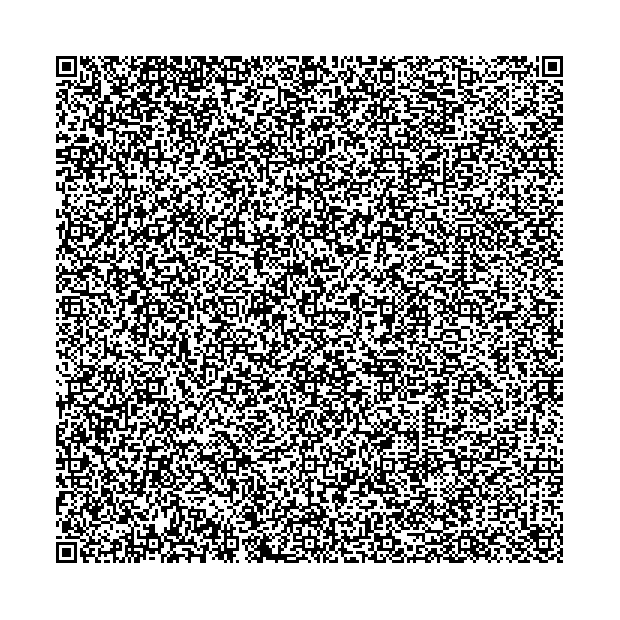
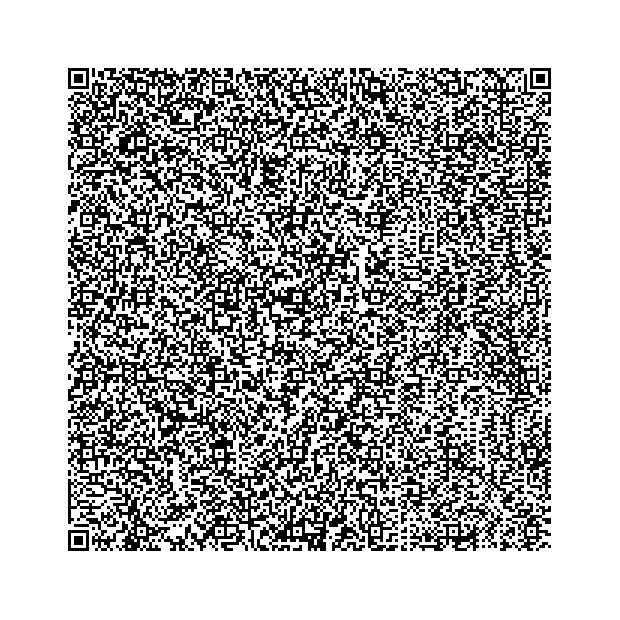
finition qr code reste plus que radius connection.

diff --git a/src/Controller/DefaultController.php b/src/Controller/DefaultController.php
@@ -15,6 +15,7 @@ use Endroid\QrCode\RoundBlockSizeMode\RoundBlockSizeModeMargin;
 use Endroid\QrCode\Writer\PngWriter;
 use Symfony\Component\HttpFoundation\JsonResponse;
 use Symfony\Component\HttpKernel\KernelInterface;
+use Symfony\Component\Serializer\SerializerInterface;
 
 class DefaultController extends AbstractController
 {
@@ -57,7 +58,7 @@ class DefaultController extends AbstractController
     /**
      * @Route("/qwerCodeJuge/{id}", name="qwerCodeJuge")
      */
-    public function qwerCodeJuge(EntityManagerInterface $em, KernelInterface $kernel, $id): Response
+    public function qwerCodeJuge(EntityManagerInterface $em, KernelInterface $kernel, SerializerInterface $serializer,$id): Response
     {
         $user = $this->getUser();
         if (!$user) {
@@ -67,54 +68,55 @@ class DefaultController extends AbstractController
         $juges = $em->getRepository(User::class)->getCompetitionsWithCavaliersAndObstacles($id);
 
         if (empty($juges)) {
-            throw new \Exception('Aucune compétition disponible pour cet utilisateur.');
+            $dataUri = 'Aucune compétition disponible pour ce juge.';
+        } else {
+
+            // // Convertir les informations des juges en JSON
+            // $datas = array();
+            // foreach ($juges as $key => $juge) {
+            //     $datas[$key]['name'] = $juge->getName();
+            //     $datas[$key]['competition']['id'] = $juge->getCompetition()->getId();
+            //     $datas[$key]['competition']['nom'] = $juge->getCompetition()->getNom();
+            //     $datas[$key]['competition']['ville'] = $juge->getCompetition()->getVille();
+            //     $datas[$key]['competition']['cp'] = $juge->getCompetition()->getCp();
+            //     $datas[$key]['competition']['adresse'] = $juge->getCompetition()->getAdresse();
+            //     $cavaliers = $juge->getCompetition()->getCavalier();
+            //     foreach ($cavaliers as $cavalier) {
+            //         $cavalierData = [
+            //             'id' => $cavalier->getId(),
+            //             'nom' => $cavalier->getNom(),
+            //             'prenom' => $cavalier->getPrenom(),
+            //             'license' => $cavalier->getLicense(),
+            //             'dossard' => $cavalier->getDossard()
+            //         ];
+
+            //         $datas[$key]['competition']['cavaliers'][] = $cavalierData;
+            //     }
+
+            //     // $datas[$key]['competition'] = $juge->getCompetition()->getCavalier()->getNoteTotal();
+            //     // $datas[$key]['competition'] = $juge->getCompetition()->getCavalier()->getNiveaux();
+            // }
+
+            // $jsonContent = new JsonResponse($datas);
+            $jsonContent = $serializer->serialize($juges, 'json', ['groups' => 'json']);
+            // Générer le code QR avec le contenu JSON
+            $qrCode = Builder::create()
+                ->writer(new PngWriter())
+                ->data($jsonContent)
+                ->encoding(new Encoding('UTF-8'))
+                ->errorCorrectionLevel(new ErrorCorrectionLevelHigh())
+                ->size(600)
+                ->margin(10)
+                ->roundBlockSizeMode(new RoundBlockSizeModeMargin())
+                ->build();
+
+            // Enregistrer le code QR dans un fichier
+            $qrCodePath = $kernel->getProjectDir() . '/public/img/qrcode.png';
+            $qrCode->saveToFile($qrCodePath);
+
+            // Générer un URI de données pour inclure les données de l'image en ligne (dans une balise <img>)
+            $dataUri = $qrCode->getDataUri();
         }
-
-        // Convertir les informations des juges en JSON
-        $datas = array();
-        foreach ($juges as $key => $juge) {
-            $datas[$key]['name'] = $juge->getName();
-            $datas[$key]['competition']['id'] = $juge->getCompetition()->getId();
-            $datas[$key]['competition']['nom'] = $juge->getCompetition()->getNom();
-            $datas[$key]['competition']['ville'] = $juge->getCompetition()->getVille();
-            $datas[$key]['competition']['cp'] = $juge->getCompetition()->getCp();
-            $datas[$key]['competition']['adresse'] = $juge->getCompetition()->getAdresse();
-            $cavaliers = $datas[$key]['competition']['cavalier'] = $juge->getCompetition()->getCavalier();
-            foreach ($cavaliers as $cavalier) {
-                $cavalierData = [
-                    'id' => $cavalier->getId(),
-                    'nom' => $cavalier->getNom(),
-                    'prenom' => $cavalier->getPrenom(),
-                    'license' => $cavalier->getLicense(),
-                    'dossard' => $cavalier->getDossard()
-                ];
-
-                $datas[$key]['competition']['cavaliers'][] = $cavalierData;
-            }
-
-            // $datas[$key]['competition'] = $juge->getCompetition()->getCavalier()->getNoteTotal();
-            // $datas[$key]['competition'] = $juge->getCompetition()->getCavalier()->getNiveaux();
-        }
-
-        $jsonContent = new JsonResponse($datas);
-
-        // Générer le code QR avec le contenu JSON
-        $qrCode = Builder::create()
-            ->writer(new PngWriter())
-            ->data($jsonContent)
-            ->encoding(new Encoding('UTF-8'))
-            ->errorCorrectionLevel(new ErrorCorrectionLevelHigh())
-            ->size(600)
-            ->margin(10)
-            ->roundBlockSizeMode(new RoundBlockSizeModeMargin())
-            ->build();
-
-        // Enregistrer le code QR dans un fichier
-        $qrCodePath = $kernel->getProjectDir() . '/public/img/qrcode.png';
-        $qrCode->saveToFile($qrCodePath);
-
-        // Générer un URI de données pour inclure les données de l'image en ligne (dans une balise <img>)
-        $dataUri = $qrCode->getDataUri();
 
         return $this->render('qwercode.html.twig', ['qrCodeDataUri' => $dataUri]);
     }

diff --git a/src/Entity/Competition.php b/src/Entity/Competition.php
@@ -7,6 +7,7 @@ use Doctrine\Common\Collections\ArrayCollection;
 use Doctrine\Common\Collections\Collection;
 use Doctrine\DBAL\Types\Types;
 use Doctrine\ORM\Mapping as ORM;
+use Symfony\Component\Serializer\Annotation\Groups;
 
 #[ORM\Entity(repositoryClass: CompetitionRepository::class)]
 class Competition
@@ -14,24 +15,30 @@ class Competition
     #[ORM\Id]
     #[ORM\GeneratedValue]
     #[ORM\Column]
+    #[Groups(['json'])]
     private ?int $id = null;
 
     #[ORM\Column(length: 20)]
+    #[Groups(['json'])]
     private ?string $nom = null;
 
     #[ORM\Column(type: Types::DATE_MUTABLE)]
     private ?\DateTimeInterface $date = null;
 
     #[ORM\Column(length: 50)]
+    #[Groups(['json'])]
     private ?string $ville = null;
 
     #[ORM\Column(length: 6)]
+    #[Groups(['json'])]
     private ?string $cp = null;
 
     #[ORM\Column(length: 50)]
+    #[Groups(['json'])]
     private ?string $adresse = null;
 
     #[ORM\ManyToMany(targetEntity: Cavalier::class, inversedBy: 'competitions')]
+    #[Groups(['json'])]
     private Collection $cavalier;
 
     #[ORM\OneToMany(mappedBy: 'competition', targetEntity: User::class)]
@@ -47,11 +54,13 @@ class Competition
         $this->epreuves = new ArrayCollection();
     }
 
+    #[SerializedName('id')]
     public function getId(): ?int
     {
         return $this->id;
     }
 
+    #[SerializedName('nom')]
     public function getNom(): ?string
     {
         return $this->nom;
@@ -76,6 +85,7 @@ class Competition
         return $this;
     }
 
+    #[SerializedName('ville')]
     public function getVille(): ?string
     {
         return $this->ville;
@@ -88,6 +98,7 @@ class Competition
         return $this;
     }
 
+    #[SerializedName('cp')]
     public function getCp(): ?string
     {
         return $this->cp;
@@ -100,6 +111,7 @@ class Competition
         return $this;
     }
 
+    #[SerializedName('adresse')]
     public function getAdresse(): ?string
     {
         return $this->adresse;
@@ -115,6 +127,7 @@ class Competition
     /**
      * @return Collection<int, cavalier>
      */
+    #[SerializedName('cavalier')]
     public function getCavalier(): Collection
     {
         return $this->cavalier;

diff --git a/src/Entity/Cavalier.php b/src/Entity/Cavalier.php
@@ -6,6 +6,7 @@ use App\Repository\CavalierRepository;
 use Doctrine\Common\Collections\ArrayCollection;
 use Doctrine\Common\Collections\Collection;
 use Doctrine\ORM\Mapping as ORM;
+use Symfony\Component\Serializer\Annotation\Groups;
 
 #[ORM\Entity(repositoryClass: CavalierRepository::class)]
 class Cavalier
@@ -13,18 +14,23 @@ class Cavalier
     #[ORM\Id]
     #[ORM\GeneratedValue]
     #[ORM\Column]
+    #[Groups(['json'])]
     private ?int $id = null;
 
     #[ORM\Column(length: 50)]
+    #[Groups(['json'])]
     private ?string $nom = null;
 
     #[ORM\Column(length: 50)]
+    #[Groups(['json'])]
     private ?string $prenom = null;
 
     #[ORM\Column]
+    #[Groups(['json'])]
     private ?int $license = null;
 
     #[ORM\Column(length: 50)]
+    #[Groups(['json'])]
     private ?string $dossard = null;
 
     #[ORM\ManyToOne(inversedBy: 'cavaliers')]
@@ -42,11 +48,13 @@ class Cavalier
         $this->competitions = new ArrayCollection();
     }
 
+    #[SerializedName('id')]
     public function getId(): ?int
     {
         return $this->id;
     }
 
+    #[SerializedName('nom')]
     public function getNom(): ?string
     {
         return $this->nom;
@@ -59,6 +67,7 @@ class Cavalier
         return $this;
     }
 
+    #[SerializedName('prenom')]
     public function getPrenom(): ?string
     {
         return $this->prenom;
@@ -71,6 +80,7 @@ class Cavalier
         return $this;
     }
 
+    #[SerializedName('license')]
     public function getLicense(): ?int
     {
         return $this->license;
@@ -83,6 +93,7 @@ class Cavalier
         return $this;
     }
 
+    #[SerializedName('dossard')]
     public function getDossard(): ?string
     {
         return $this->dossard;

diff --git a/src/Entity/User.php b/src/Entity/User.php
@@ -18,15 +18,12 @@ class User implements UserInterface, PasswordAuthenticatedUserInterface
     #[ORM\Id]
     #[ORM\GeneratedValue]
     #[ORM\Column]
-    #[Groups(['json'])]
     private ?int $id = null;
 
     #[ORM\Column(length: 180, unique: true)]
-    #[Groups(['json'])]
     private ?string $email = null;
 
     #[ORM\Column]
-    #[Groups(['json'])]
     private array $roles = [];
 
     /**
@@ -40,14 +37,11 @@ class User implements UserInterface, PasswordAuthenticatedUserInterface
     private ?string $name = null;
 
     #[ORM\Column(type: Types::DATETIME_MUTABLE)]
-    #[Groups(['json'])]
     private ?\DateTimeInterface $last_login = null;
 
     #[ORM\Column(type: Types::DATETIME_MUTABLE)]
-    #[Groups(['json'])]
     private ?\DateTimeInterface $register_date = null;
 
-    #[Groups(['json'])]
     #[ORM\ManyToOne(inversedBy: 'user')]
     private ?NoteTotal $noteTotal = null;
 
@@ -125,6 +119,7 @@ class User implements UserInterface, PasswordAuthenticatedUserInterface
         // $this->plainPassword = null;
     }
 
+    #[SerializedName('name')]
     public function getName(): ?string
     {
         return $this->name;
@@ -173,6 +168,7 @@ class User implements UserInterface, PasswordAuthenticatedUserInterface
         return $this;
     }
 
+    #[SerializedName('competition')]
     public function getCompetition(): ?Competition
     {
         return $this->competition;
